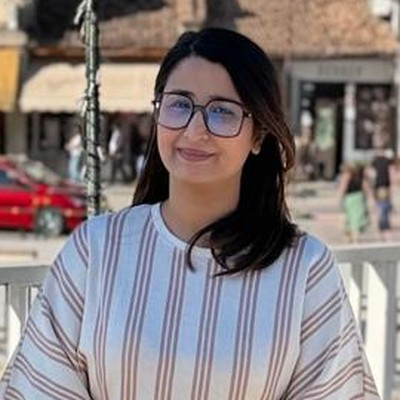
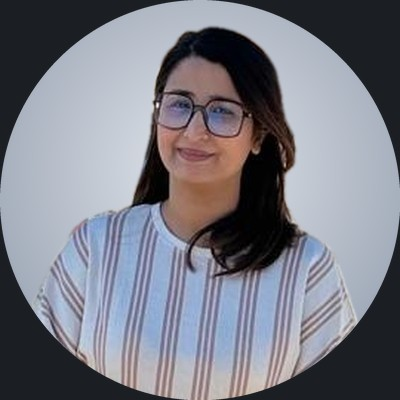
Remove language line; give Fiza's photo a studio background in the same circular format
Claude-Session: https://claude.ai/code/session_0156ELWb9gqBP3KhJHDvmoUG

diff --git a/index.html b/index.html
@@ -545,7 +545,7 @@ footer a:hover{color:#fff}
       </div>
       <p class="lead">NextGen was founded and is led by Sheryar Ahmed ACA FCCA, a member of both ICAEW and ACCA, with Fiza Gillani ACCA as Practice Manager and a team of ACCA-qualified accountants behind them.</p>
       <p>Sheryar has spent more than ten years in UK finance across hospitality, real estate and consulting, in senior finance and payroll roles as well as practice work. That means the person preparing your accounts has also sat in the finance seat of a real business.</p>
-      <p>Your work is prepared by qualified accountants and reviewed by a Chartered Accountant before it goes to you or HMRC. You get a named contact who knows your file, in plain English, and Urdu, Hindi or Punjabi if you prefer.</p>
+      <p>Your work is prepared by qualified accountants and reviewed by a Chartered Accountant before it goes to you or HMRC. You get a named contact who knows your file and explains things in plain English.</p>
       <div class="facts">
         <div><b>ACA · FCCA · ACCA</b>Qualified team</div>
         <div><b>C011010236</b>ICAEW firm number</div>
@@ -566,7 +566,7 @@ footer a:hover{color:#fff}
       </ul>
   </aside>
       <aside class="card-cred alt" aria-label="Practice Manager">
-        <div class="who"><img src="img/fiza.jpg" alt="Fiza Gillani" width="400" height="400" loading="lazy"><div><p class="nm">Fiza Gillani</p>
+        <div class="who"><img src="img/fiza.jpg?v=2" alt="Fiza Gillani" width="400" height="400" loading="lazy"><div><p class="nm">Fiza Gillani</p>
         <p class="role">ACCA · Practice Manager</p></div></div>
         <ul>
           <li><span>ACCA</span><b>Member</b></li>
